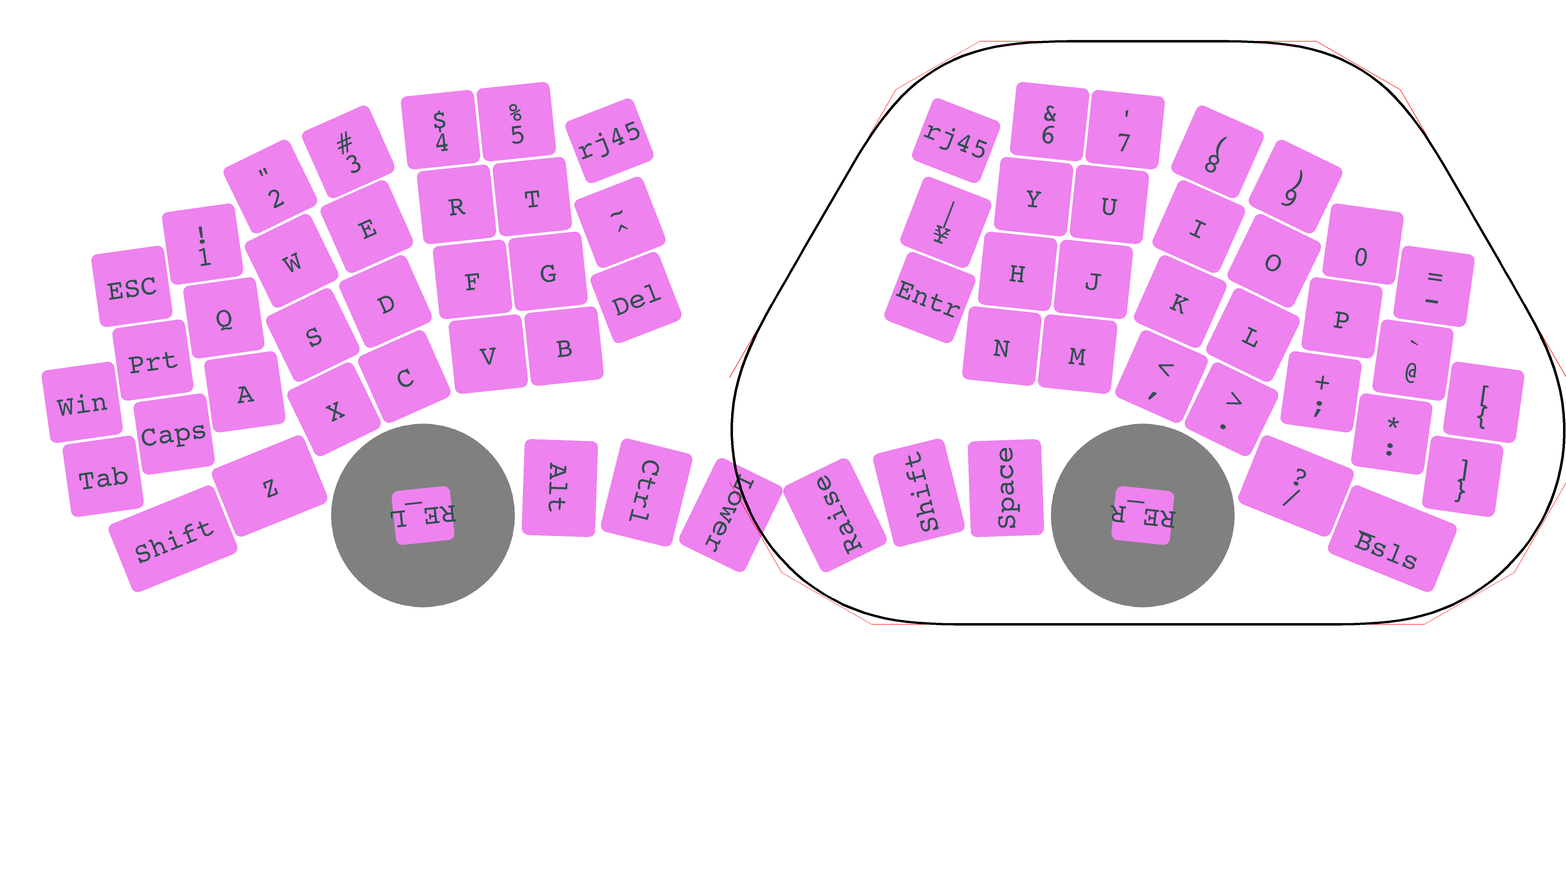
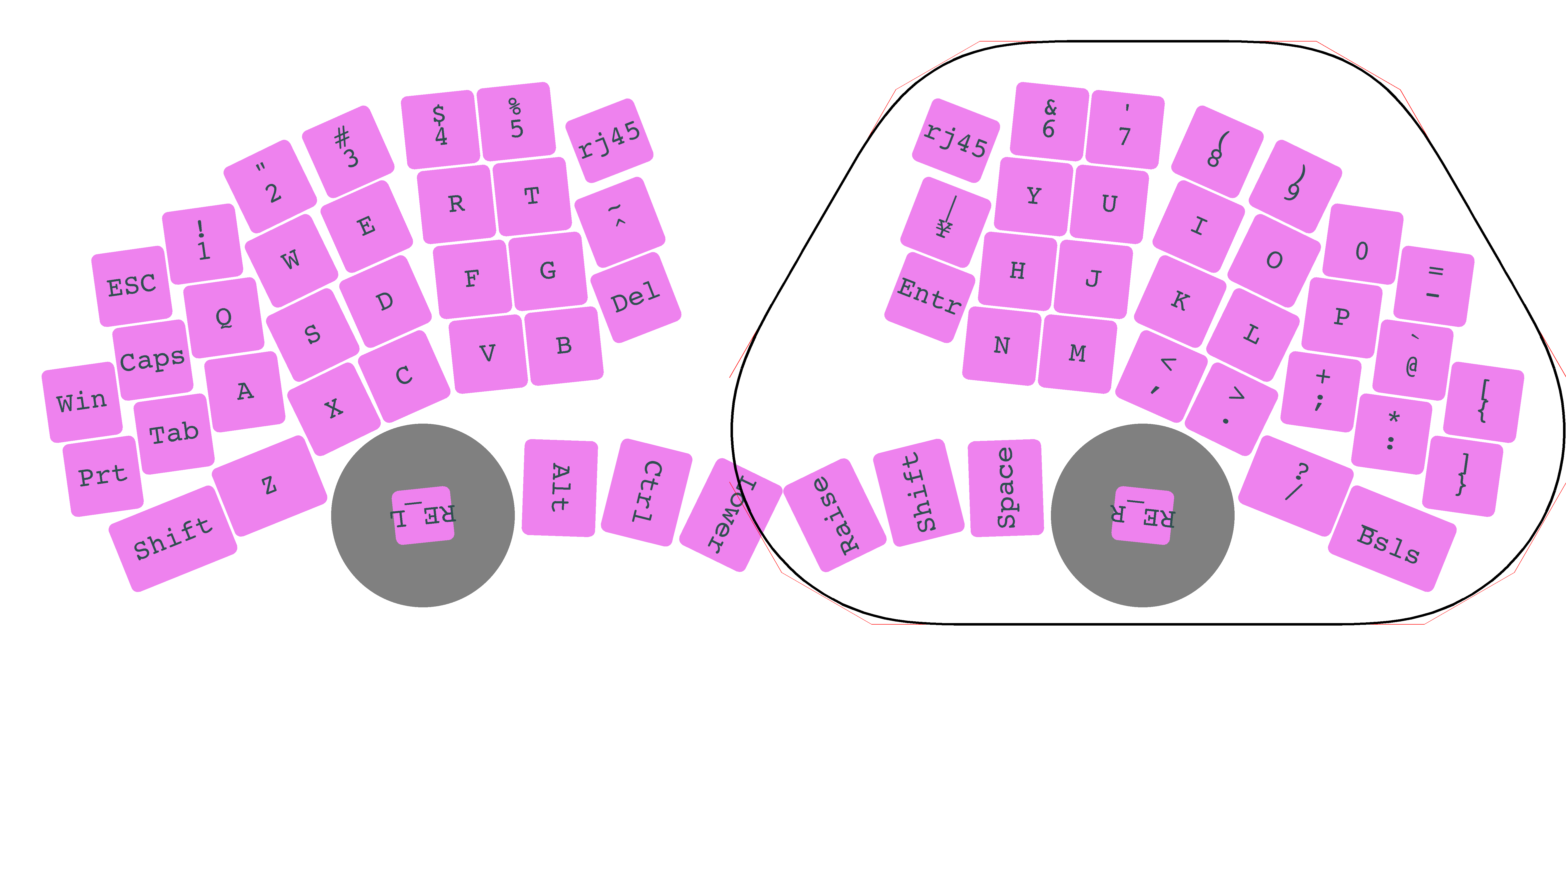
update [Tab] key position, update for Python updates

diff --git a/layout/kbd-layout.py b/layout/kbd-layout.py
@@ -11,7 +11,8 @@ kbd_name = 'hermit62'
 anti_alias_scaling = 4
 
 fontpath = "/System/Library/Fonts/Courier.ttc"
-font = ImageFont.truetype( fontpath, size = 28 * anti_alias_scaling )
+fontsize = 28 * anti_alias_scaling
+font = ImageFont.truetype( fontpath, size = fontsize )
 
 def vec2( x, y ):
     return np.array( [x, y] )
@@ -45,7 +46,11 @@ def get_key_image( size, radius, name, fill ):
     rect.paste( corner.rotate( 180 ), (mx + w - radius, my + h - radius) )
     rect.paste( corner.rotate( 270 ), (mx + w - radius, my) )
     # name
-    tw, th = draw.textsize( name, font )
+    lines = name.split("\n")
+    tw = 0
+    for line in lines:
+        tw = max(tw, draw.textlength( line, font ))
+    th = fontsize * len(lines)
     draw.text( (sz / 2 - tw / 2, sz / 2 - th / 2), name, "DarkSlateGrey", font )
     return rect, sz
 
@@ -175,7 +180,7 @@ class keyboard_layout:
 
         xsize = int( round( size[0] / anti_alias_scaling ) )
         ysize = int( round( size[1] / anti_alias_scaling ) )
-        image = image.resize( (xsize, ysize), Image.ANTIALIAS )
+        image = image.resize( (xsize, ysize), Image.BILINEAR )
         image.save( path )
 
     def write_scad( self, path: str, unit: float, arc_pnts ):
@@ -339,8 +344,8 @@ def make_kbd_layout( unit, output_type ):
 
     # Left hand
     thumbsL = ["Alt", "Ctrl", "Lower"]
-    col_Gui = ["Shift", "Tab", "Win"]
-    col_Tab = ["", "Caps", "Prt", "ESC"]
+    col_Gui = ["Shift", "Prt", "Win"]
+    col_Tab = ["", "Tab", "Caps", "ESC"]
     col_Z = ["Z", "A", "Q", "!\n1"]
     col_X = ["X", "S", "W", "\"\n2"]
     col_C = ["C", "D", "E", "#\n3"]
